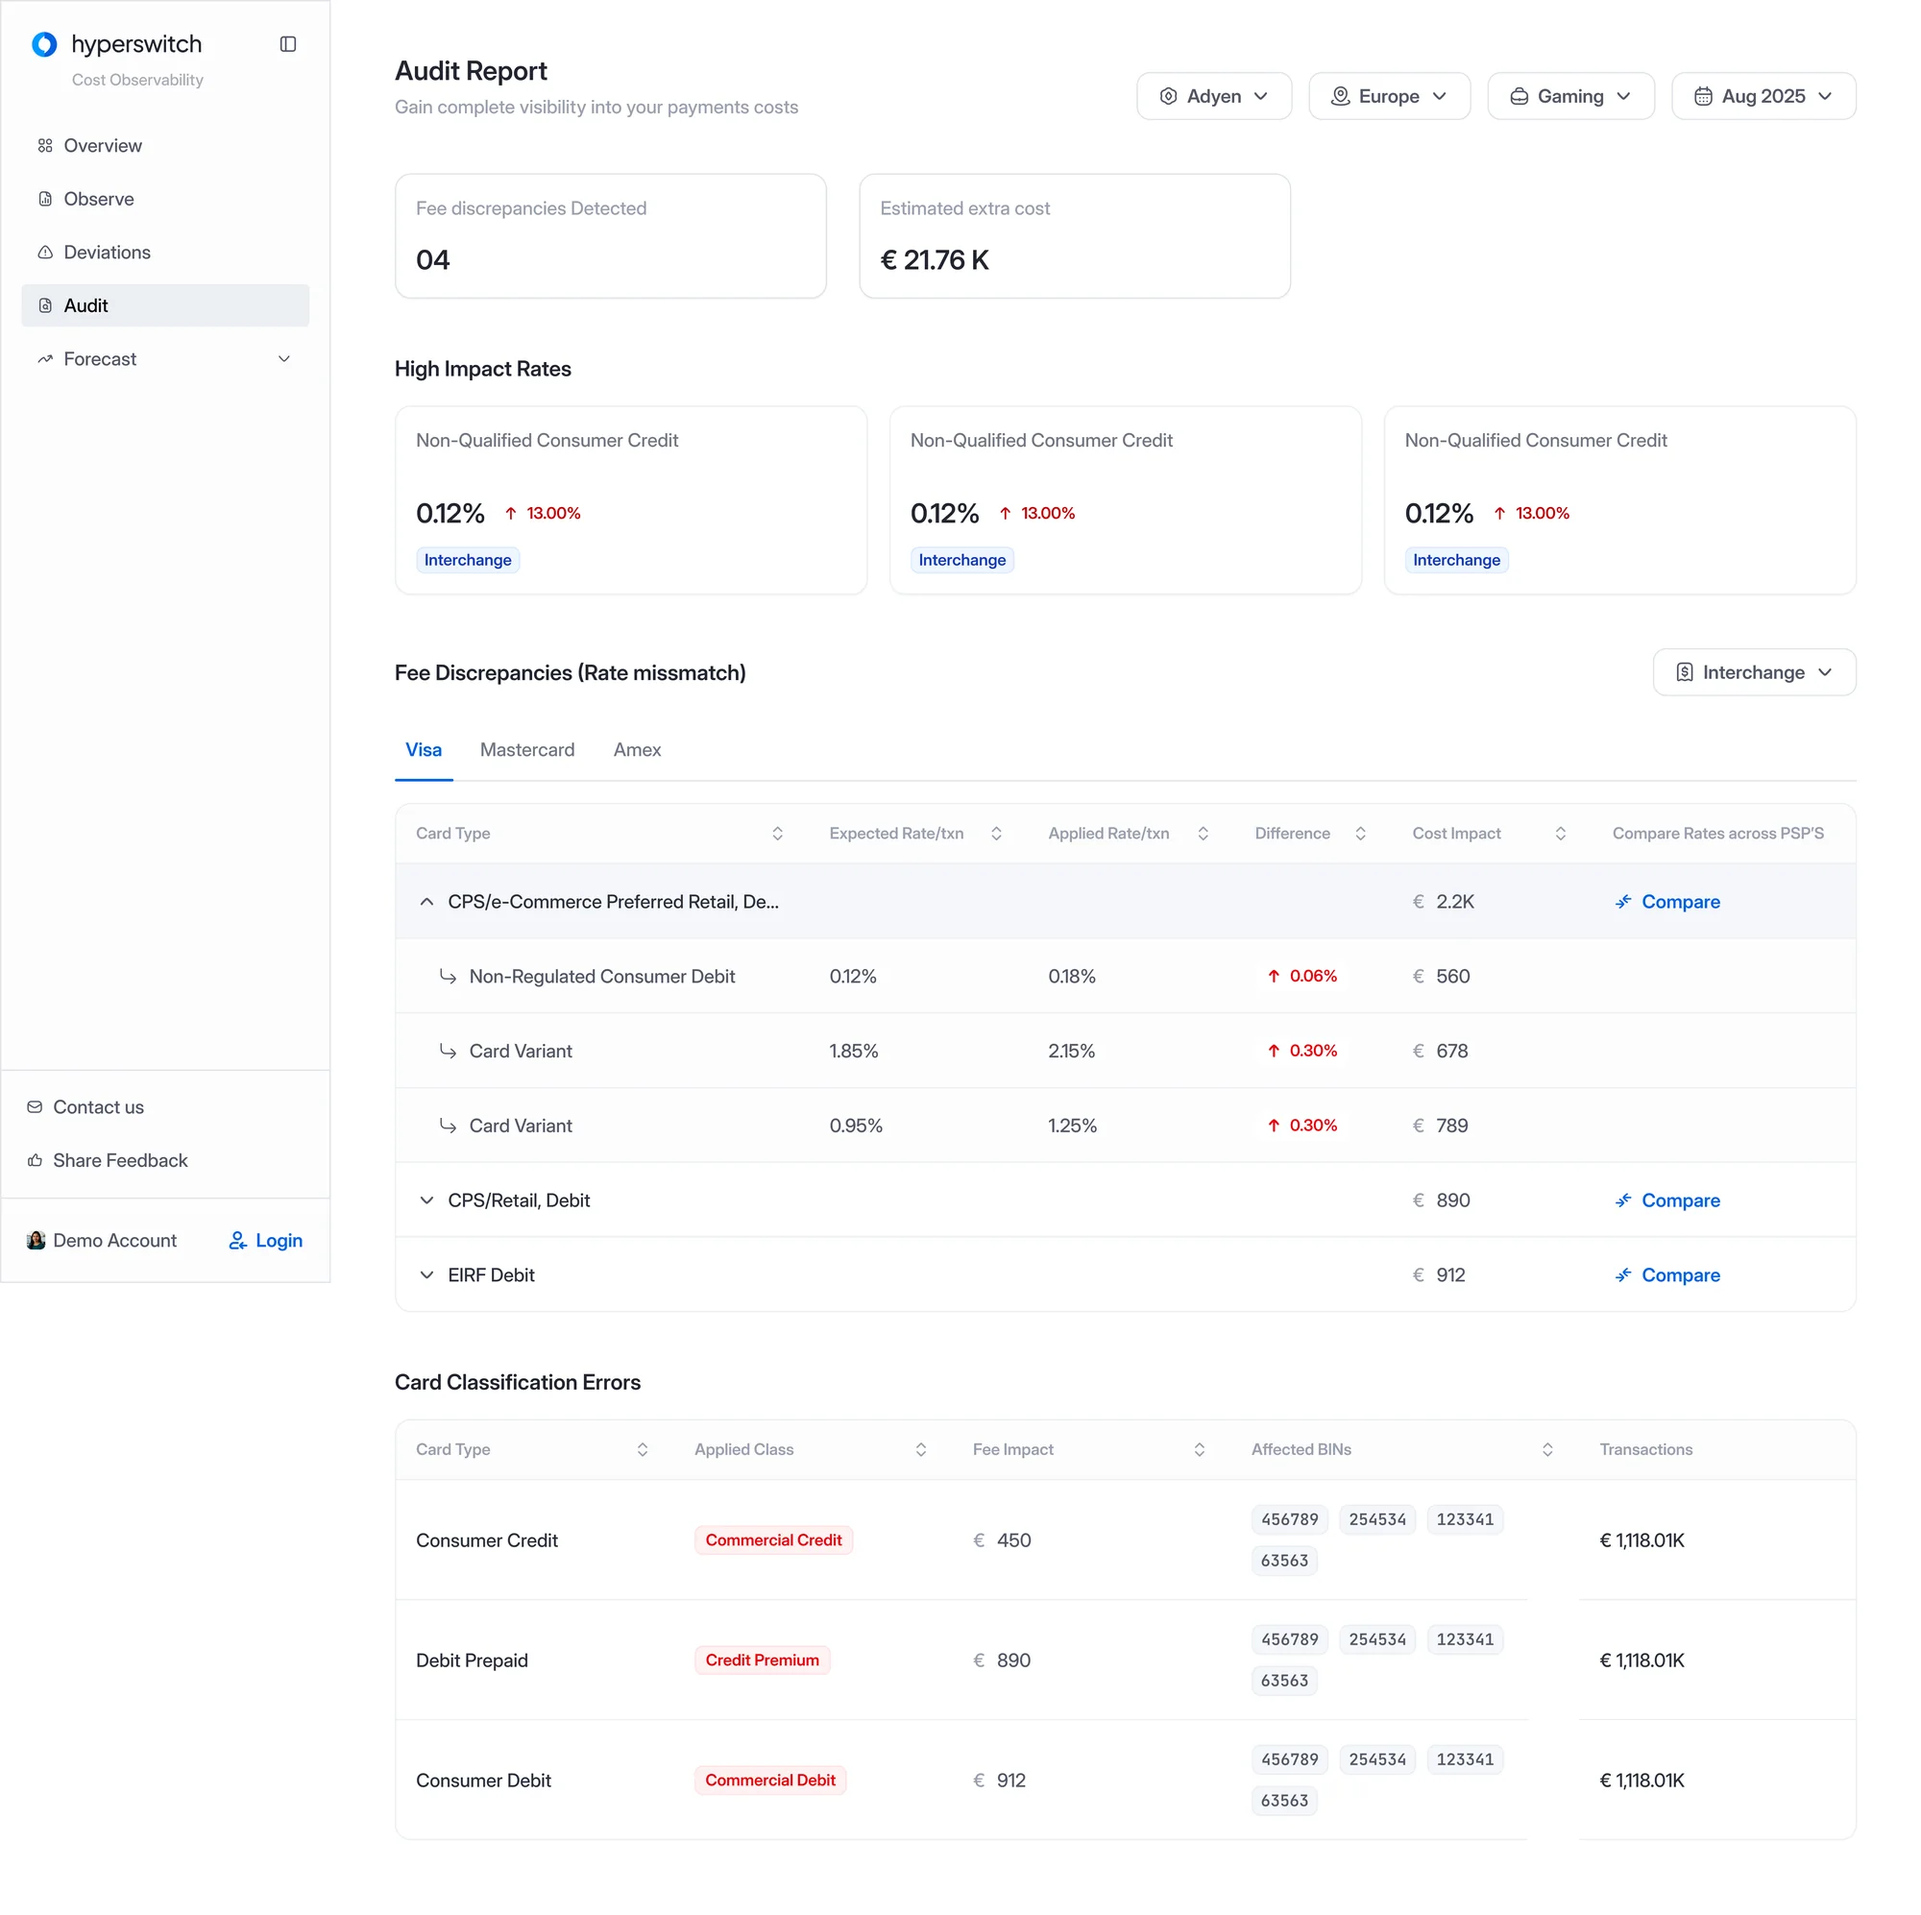
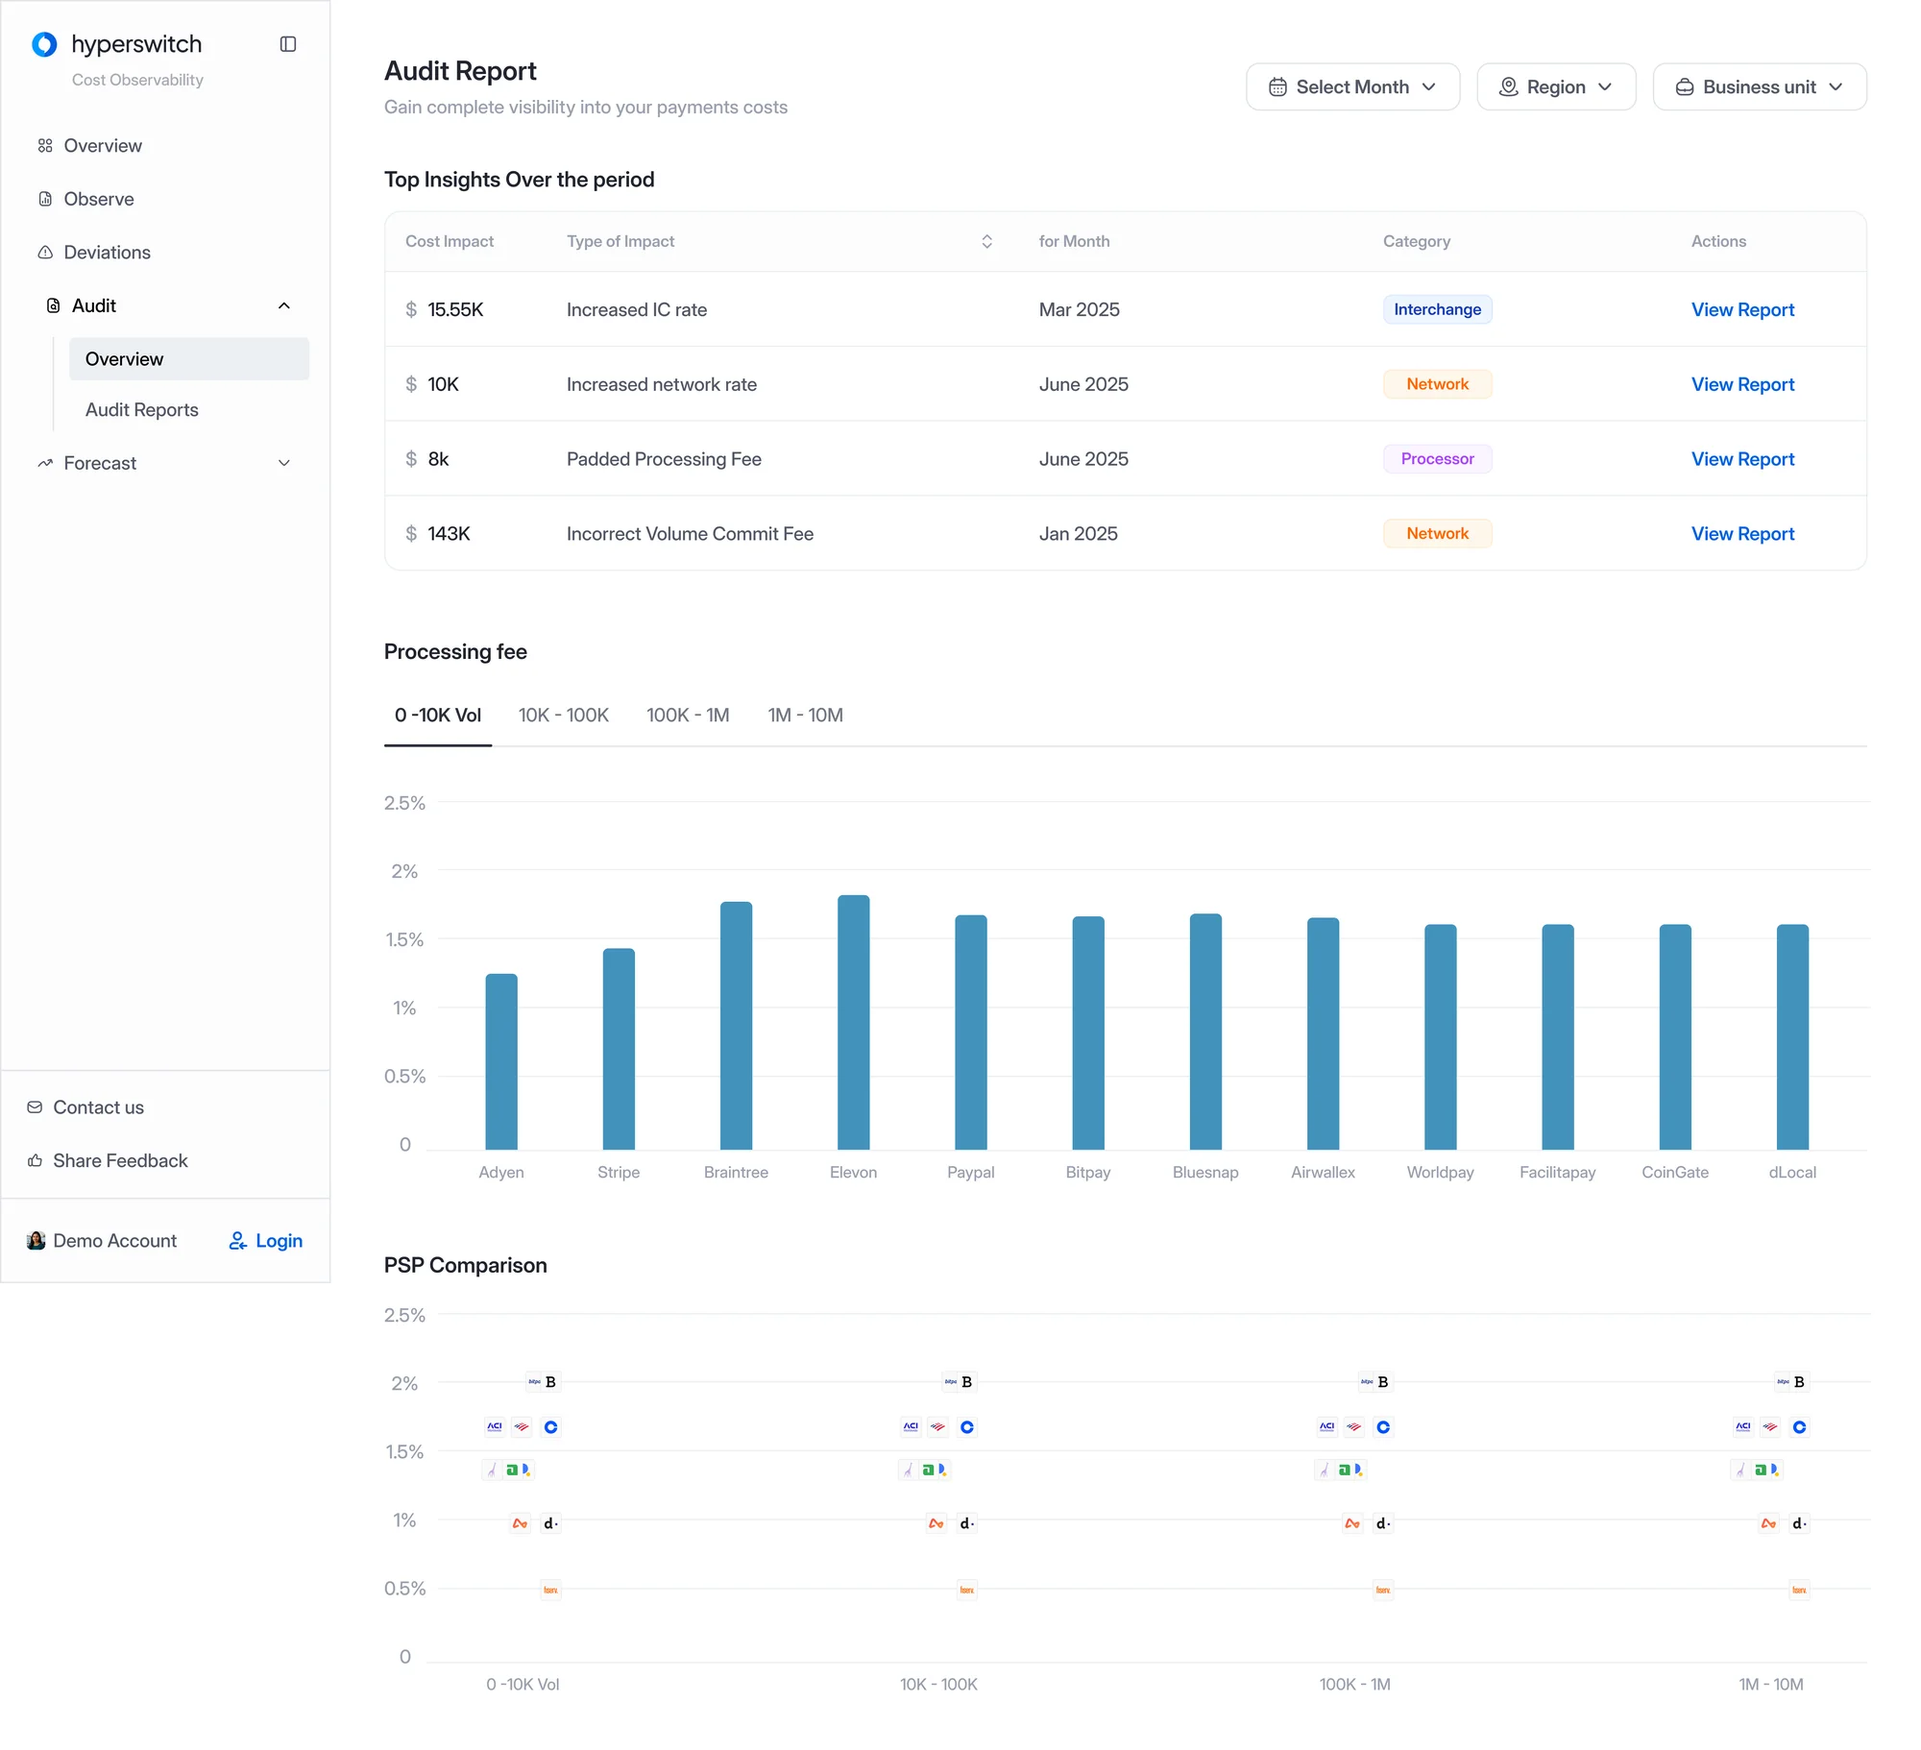
HyperSense: replace Audit iterations with the 10 new screens

diff --git a/work-hypersense-v3.html b/work-hypersense-v3.html
@@ -1272,7 +1272,7 @@ nav .logo a.cs-back:focus-visible { outline: 2px solid var(--accent); outline-of
 
 </style>
 <link rel="stylesheet" href="assets/cs-article.css">
-<link rel="stylesheet" href="assets/cs-v3.css?v=125">
+<link rel="stylesheet" href="assets/cs-v3.css?v=126">
 <style>
 /* This project's colour in dark mode: the purple of the night sky */
 :root[data-theme="dark"] {
@@ -2083,16 +2083,19 @@ nav .logo a.cs-back:focus-visible { outline: 2px solid var(--accent); outline-of
     <div class="cs-module-tag reveal">Audit</div>
     <h3 class="cs-h3 reveal">Was I charged correctly?</h3>
     <div class="cs-evo-strip cs-vis--wide reveal" tabindex="0" aria-label="Audit iterations, scroll sideways">
-      <figure class="cs-evo-frame"><button type="button" class="cs-evo-shot" aria-label="View Audit iteration 1 full size"><img src="assets/hypersense/iterations/audit-01.webp" alt="Audit iteration 1" loading="lazy" decoding="async" width="2000" height="1336"></button></figure>
-      <figure class="cs-evo-frame"><button type="button" class="cs-evo-shot" aria-label="View Audit iteration 2 full size"><img src="assets/hypersense/iterations/audit-02.webp" alt="Audit iteration 2" loading="lazy" decoding="async" width="2000" height="1917"></button></figure>
-      <figure class="cs-evo-frame"><button type="button" class="cs-evo-shot" aria-label="View Audit iteration 3 full size"><img src="assets/hypersense/iterations/audit-03.webp" alt="Audit iteration 3" loading="lazy" decoding="async" width="2000" height="1994"></button></figure>
-      <figure class="cs-evo-frame"><button type="button" class="cs-evo-shot" aria-label="View Audit iteration 4 full size"><img src="assets/hypersense/iterations/audit-04.webp" alt="Audit iteration 4" loading="lazy" decoding="async" width="2000" height="1836"></button></figure>
-      <figure class="cs-evo-frame"><button type="button" class="cs-evo-shot" aria-label="View Audit iteration 5 full size"><img src="assets/hypersense/iterations/audit-05.webp" alt="Audit iteration 5" loading="lazy" decoding="async" width="2000" height="1781"></button></figure>
-      <figure class="cs-evo-frame"><button type="button" class="cs-evo-shot" aria-label="View Audit iteration 6 full size"><img src="assets/hypersense/iterations/audit-06.webp" alt="Audit iteration 6" loading="lazy" decoding="async" width="2000" height="1782"></button></figure>
-      <figure class="cs-evo-frame"><button type="button" class="cs-evo-shot" aria-label="View Audit iteration 7 full size"><img src="assets/hypersense/iterations/audit-07.webp" alt="Audit iteration 7" loading="lazy" decoding="async" width="2000" height="1707"></button></figure>
+      <figure class="cs-evo-frame"><button type="button" class="cs-evo-shot" aria-label="View Audit iteration 1 full size"><img src="assets/hypersense/iterations/audit-01.webp?v=3" alt="Audit iteration 1" loading="lazy" decoding="async" width="2000" height="1939"></button></figure>
+      <figure class="cs-evo-frame"><button type="button" class="cs-evo-shot" aria-label="View Audit iteration 2 full size"><img src="assets/hypersense/iterations/audit-02.webp?v=3" alt="Audit iteration 2" loading="lazy" decoding="async" width="2000" height="2347"></button></figure>
+      <figure class="cs-evo-frame"><button type="button" class="cs-evo-shot" aria-label="View Audit iteration 3 full size"><img src="assets/hypersense/iterations/audit-03.webp?v=3" alt="Audit iteration 3" loading="lazy" decoding="async" width="2000" height="1822"></button></figure>
+      <figure class="cs-evo-frame"><button type="button" class="cs-evo-shot" aria-label="View Audit iteration 4 full size"><img src="assets/hypersense/iterations/audit-04.webp?v=3" alt="Audit iteration 4" loading="lazy" decoding="async" width="2000" height="1442"></button></figure>
+      <figure class="cs-evo-frame"><button type="button" class="cs-evo-shot" aria-label="View Audit iteration 5 full size"><img src="assets/hypersense/iterations/audit-05.webp?v=3" alt="Audit iteration 5" loading="lazy" decoding="async" width="2000" height="1719"></button></figure>
+      <figure class="cs-evo-frame"><button type="button" class="cs-evo-shot" aria-label="View Audit iteration 6 full size"><img src="assets/hypersense/iterations/audit-06.webp?v=3" alt="Audit iteration 6" loading="lazy" decoding="async" width="2000" height="1994"></button></figure>
+      <figure class="cs-evo-frame"><button type="button" class="cs-evo-shot" aria-label="View Audit iteration 7 full size"><img src="assets/hypersense/iterations/audit-07.webp?v=3" alt="Audit iteration 7" loading="lazy" decoding="async" width="2000" height="1836"></button></figure>
+      <figure class="cs-evo-frame"><button type="button" class="cs-evo-shot" aria-label="View Audit iteration 8 full size"><img src="assets/hypersense/iterations/audit-08.webp?v=3" alt="Audit iteration 8" loading="lazy" decoding="async" width="2000" height="1742"></button></figure>
+      <figure class="cs-evo-frame"><button type="button" class="cs-evo-shot" aria-label="View Audit iteration 9 full size"><img src="assets/hypersense/iterations/audit-09.webp?v=3" alt="Audit iteration 9" loading="lazy" decoding="async" width="2000" height="1782"></button></figure>
+      <figure class="cs-evo-frame"><button type="button" class="cs-evo-shot" aria-label="View Audit iteration 10 full size"><img src="assets/hypersense/iterations/audit-10.webp?v=3" alt="Audit iteration 10" loading="lazy" decoding="async" width="2000" height="1667"></button></figure>
     </div>
     <dl class="cs-role cs-role--plain reveal">
-      <div class="cs-role-row"><dt><span>What we explored</span></dt><dd>Rate-by-rate comparison tables, classification errors and comparison across PSPs.</dd></div>
+      <div class="cs-role-row"><dt><span>What we explored</span></dt><dd>An audit overview with top insights, rate-by-rate comparison tables, classification errors and comparison across PSPs.</dd></div>
       <div class="cs-role-row"><dt><span>What we learned</span></dt><dd>Rate tables only work for IC++. Merchants on blended pricing need a check against their contracted rate.</dd></div>
       <div class="cs-role-row"><dt><span>What changed</span></dt><dd>Audit opens with the extra charged per processor, then splits by pricing model.</dd></div>
     </dl>
